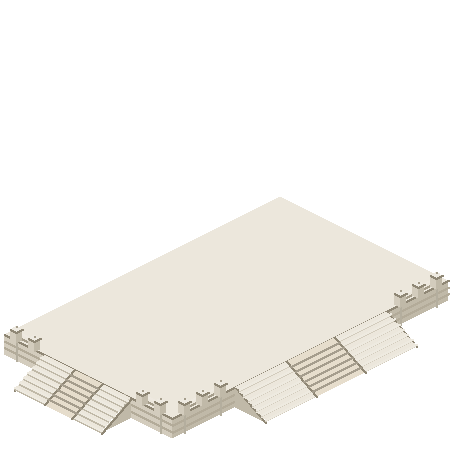
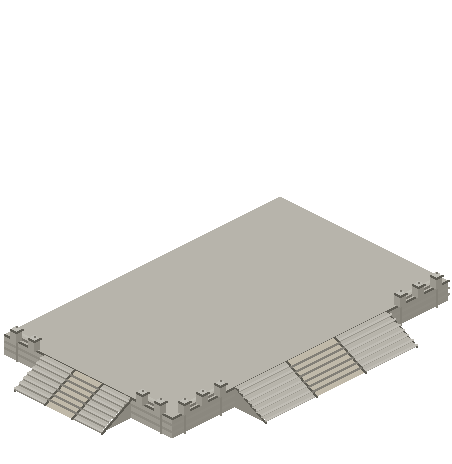
Finca: caminos de tierra + terrazas/escaleras de piedra gris (no mármol blanco)
- Caminos: de crema-tintado-por-casa (salía rosado) a tierra/gravilla apisonada,
  que contrasta con el ladrillo gris del patio (hac-iso.js).
- Terrazas y escalinatas de los edificios grandes (须弥座/台基): de mármol
  blanco-crema con balaustrada (estilo Ming/Qing) a PIEDRA GRIS (青石), coherente
  con teja y ladrillo Han. Regenerados los sprites -base-.
SPRITE_VER 33; hac-iso.js?v=62.

diff --git a/assets/js/hac-iso.js b/assets/js/hac-iso.js
@@ -20,7 +20,7 @@ const HacIso = (function () {
   const TOP_MARGIN = 132;             // hueco arriba para edificios altos, murallas y torres
   const PAD_X = 40;                   // margen lateral para murallas y paseo de ronda
   const SPRITE_BASE = 'assets/img/iso/';
-  const SPRITE_VER = '32';  // súbelo al regenerar los PNG (cache-busting)
+  const SPRITE_VER = '33';  // súbelo al regenerar los PNG (cache-busting)
 
   // ── Color helpers (para el placeholder) ─────────────────────────────────
   const { hexToRgb, clamp255: cl } = HacUtil;
@@ -548,7 +548,7 @@ const HacIso = (function () {
       if (cam.length) {
         const set = new Set(cam.map(c => c.pos[0] + ',' + c.pos[1]));
         const isCam = (x, y) => set.has(x + ',' + y);
-        const pave = mix('#cdc2a6', casa, .05), curb = dark(pave, .34), joint = dark(pave, .16);
+        const pave = mix('#a99c78', casa, .03), curb = dark(pave, .34), joint = dark(pave, .16);   // sendero de tierra/gravilla apisonada (contrasta con el ladrillo gris del patio)
         cam.forEach(c => {
           const gx = c.pos[0], gy = c.pos[1], cx = X(gx, gy), cy = Y(gx, gy);
           const N = [cx, cy - TILE_H / 2], E = [cx + TILE_W / 2, cy], S = [cx, cy + TILE_H / 2], Wp = [cx - TILE_W / 2, cy];

diff --git a/tools/gen-iso-sprites.js b/tools/gen-iso-sprites.js
@@ -249,12 +249,11 @@ function drawBuilding(cfg, layer) {
     orn(r0,1); orn(r1,-1);
   }
 
-  // ── Terraza imperial de mármol (须弥座) para edificios grandes ───────────
-  // Sustituye al zócalo de piedra: plinto de MÁRMOL claro, escalinatas con
-  // peldaños tallados (huella + contrahuella) y rampa central (御路), y una
-  // BALAUSTRADA de pilares (望柱) rodeando las caras frontales. Estilo Ciudad
-  // Prohibida (太和殿): el edificio no arranca a ras de suelo, se sube por la terraza.
-  const MB = { t:'#ece7dc', l:'#d3ccbd', r:'#c0b9a8', d:'#a59d8b', edge:'#8f8775', j:'#b3ab99' };
+  // ── Terraza de PIEDRA GRIS (台基) para edificios grandes ────────────────
+  // Plinto de piedra gris (青石) con escalinatas talladas (huella + contrahuella)
+  // y rampa central, y balaustrada de pilares. Gris (no mármol blanco, que sería
+  // Ming/Qing) para casar con la teja y el ladrillo Han.
+  const MB = { t:'#b7b4ab', l:'#9b988f', r:'#8b887f', d:'#75726a', edge:'#5d5b53', j:'#8d8a81' };
   const tov = 0.34;                                  // vuelo del plinto (cornisa)
   const swS = Math.max(0.75, (w-1)*0.30), swE = Math.max(0.75, (h-1)*0.30);
   const cxS = (w-1)/2, cyE = (h-1)/2;

diff --git a/hacienda.html b/hacienda.html
@@ -42,7 +42,7 @@
 <script src="assets/js/iso-sprites-meta.js?v=17"></script>
 <script src="assets/js/iso-sprites-extra.js?v=6"></script>
 <script src="assets/js/hac-flora.js?v=1"></script>
-<script src="assets/js/hac-iso.js?v=61"></script>
+<script src="assets/js/hac-iso.js?v=62"></script>
 <script src="assets/js/hac-dialog.js?v=2"></script>
 <script src="assets/js/hac-folk.js?v=29"></script>
 <script src="assets/js/hac-snapshots.js?v=1"></script>

diff --git a/haciendas.html b/haciendas.html
@@ -83,7 +83,7 @@
 <script src="assets/js/iso-sprites-meta.js?v=17"></script>
 <script src="assets/js/iso-sprites-extra.js?v=6"></script>
 <script src="assets/js/hac-flora.js?v=1"></script>
-<script src="assets/js/hac-iso.js?v=61"></script>
+<script src="assets/js/hac-iso.js?v=62"></script>
 <script src="assets/js/hac-dialog.js?v=2"></script>
 <script src="assets/js/hac-folk.js?v=29"></script>
 <script src="assets/js/haciendas.js?v=2"></script>
